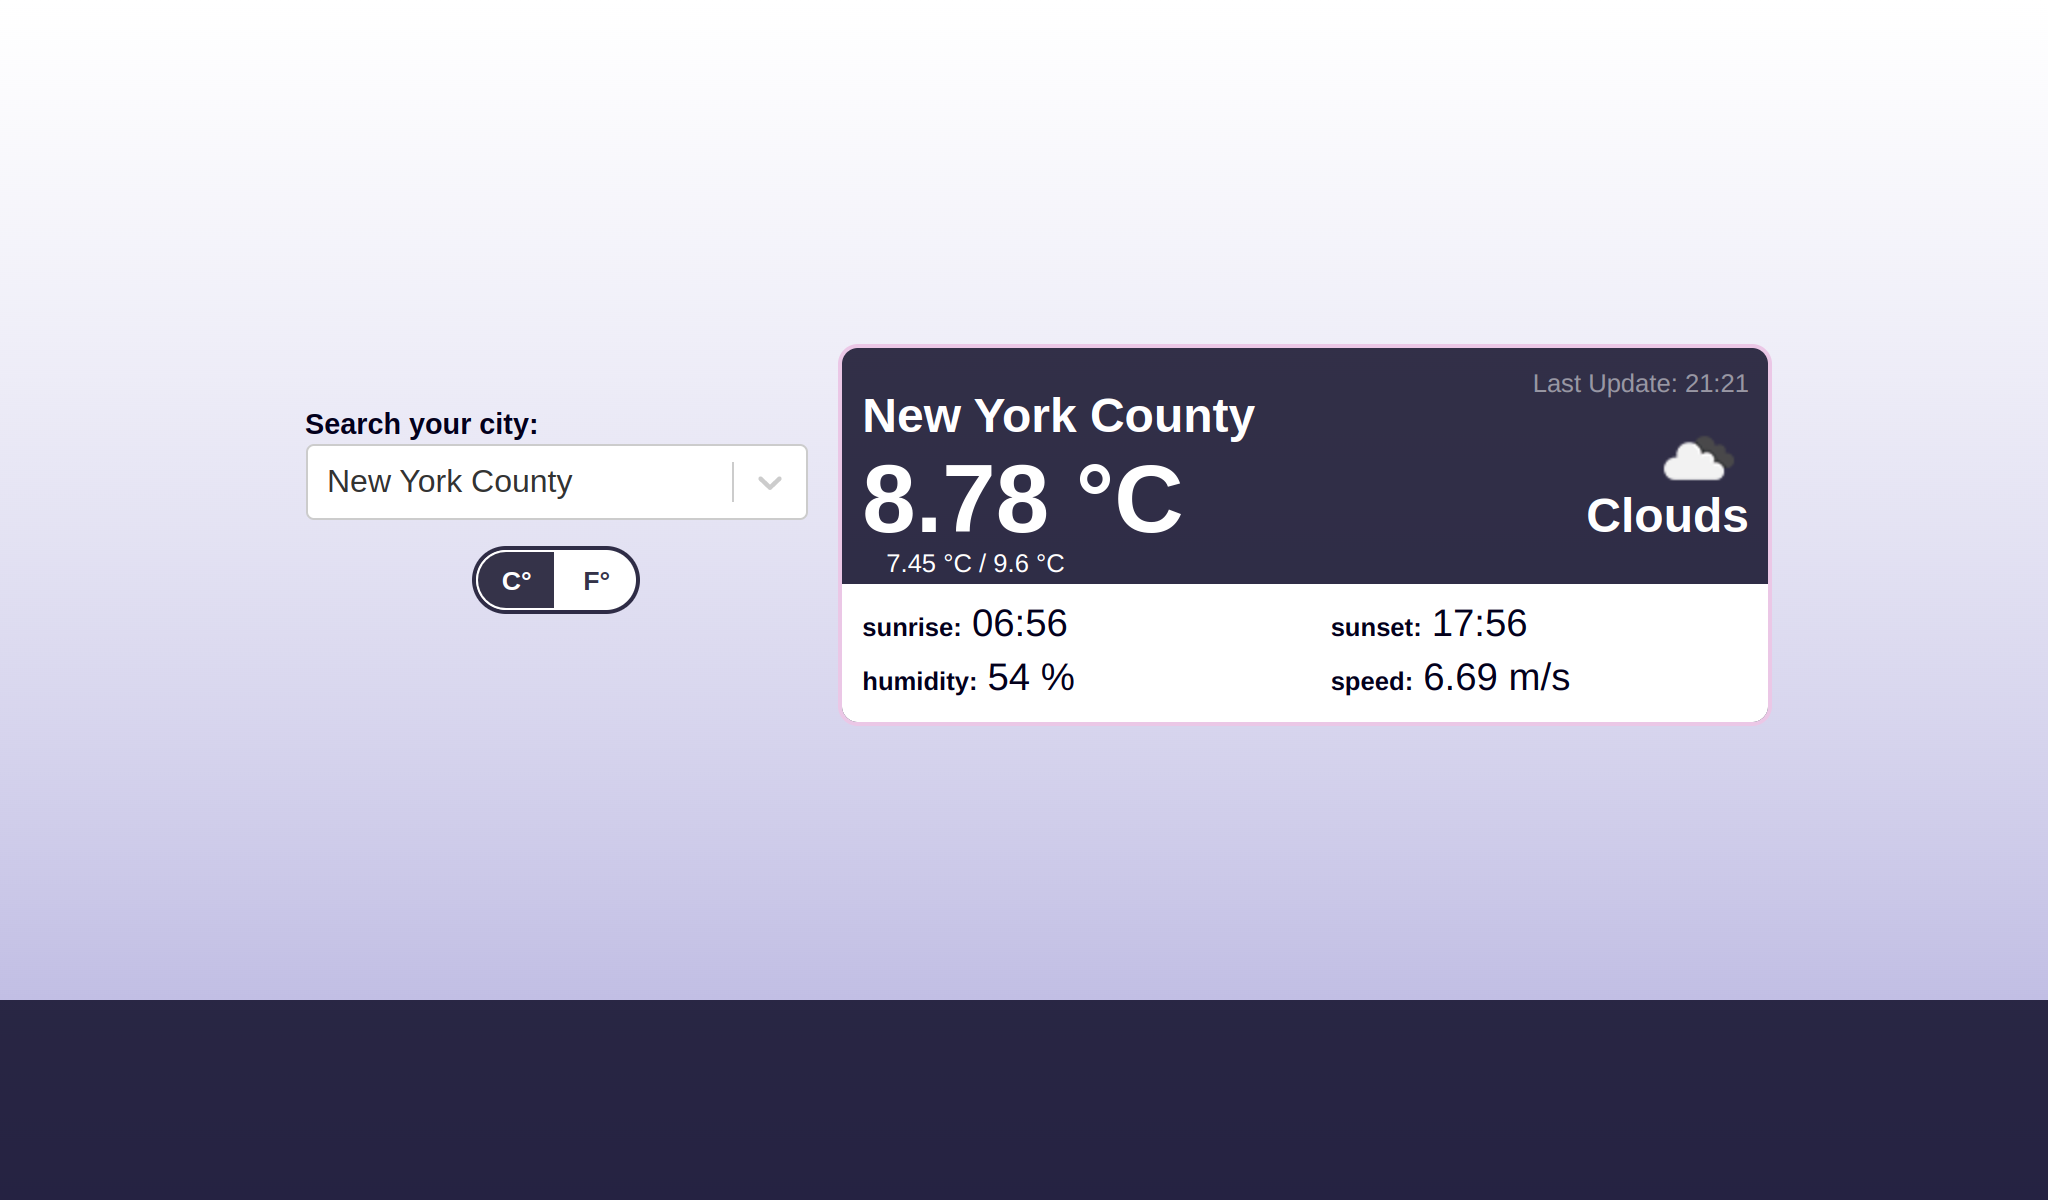
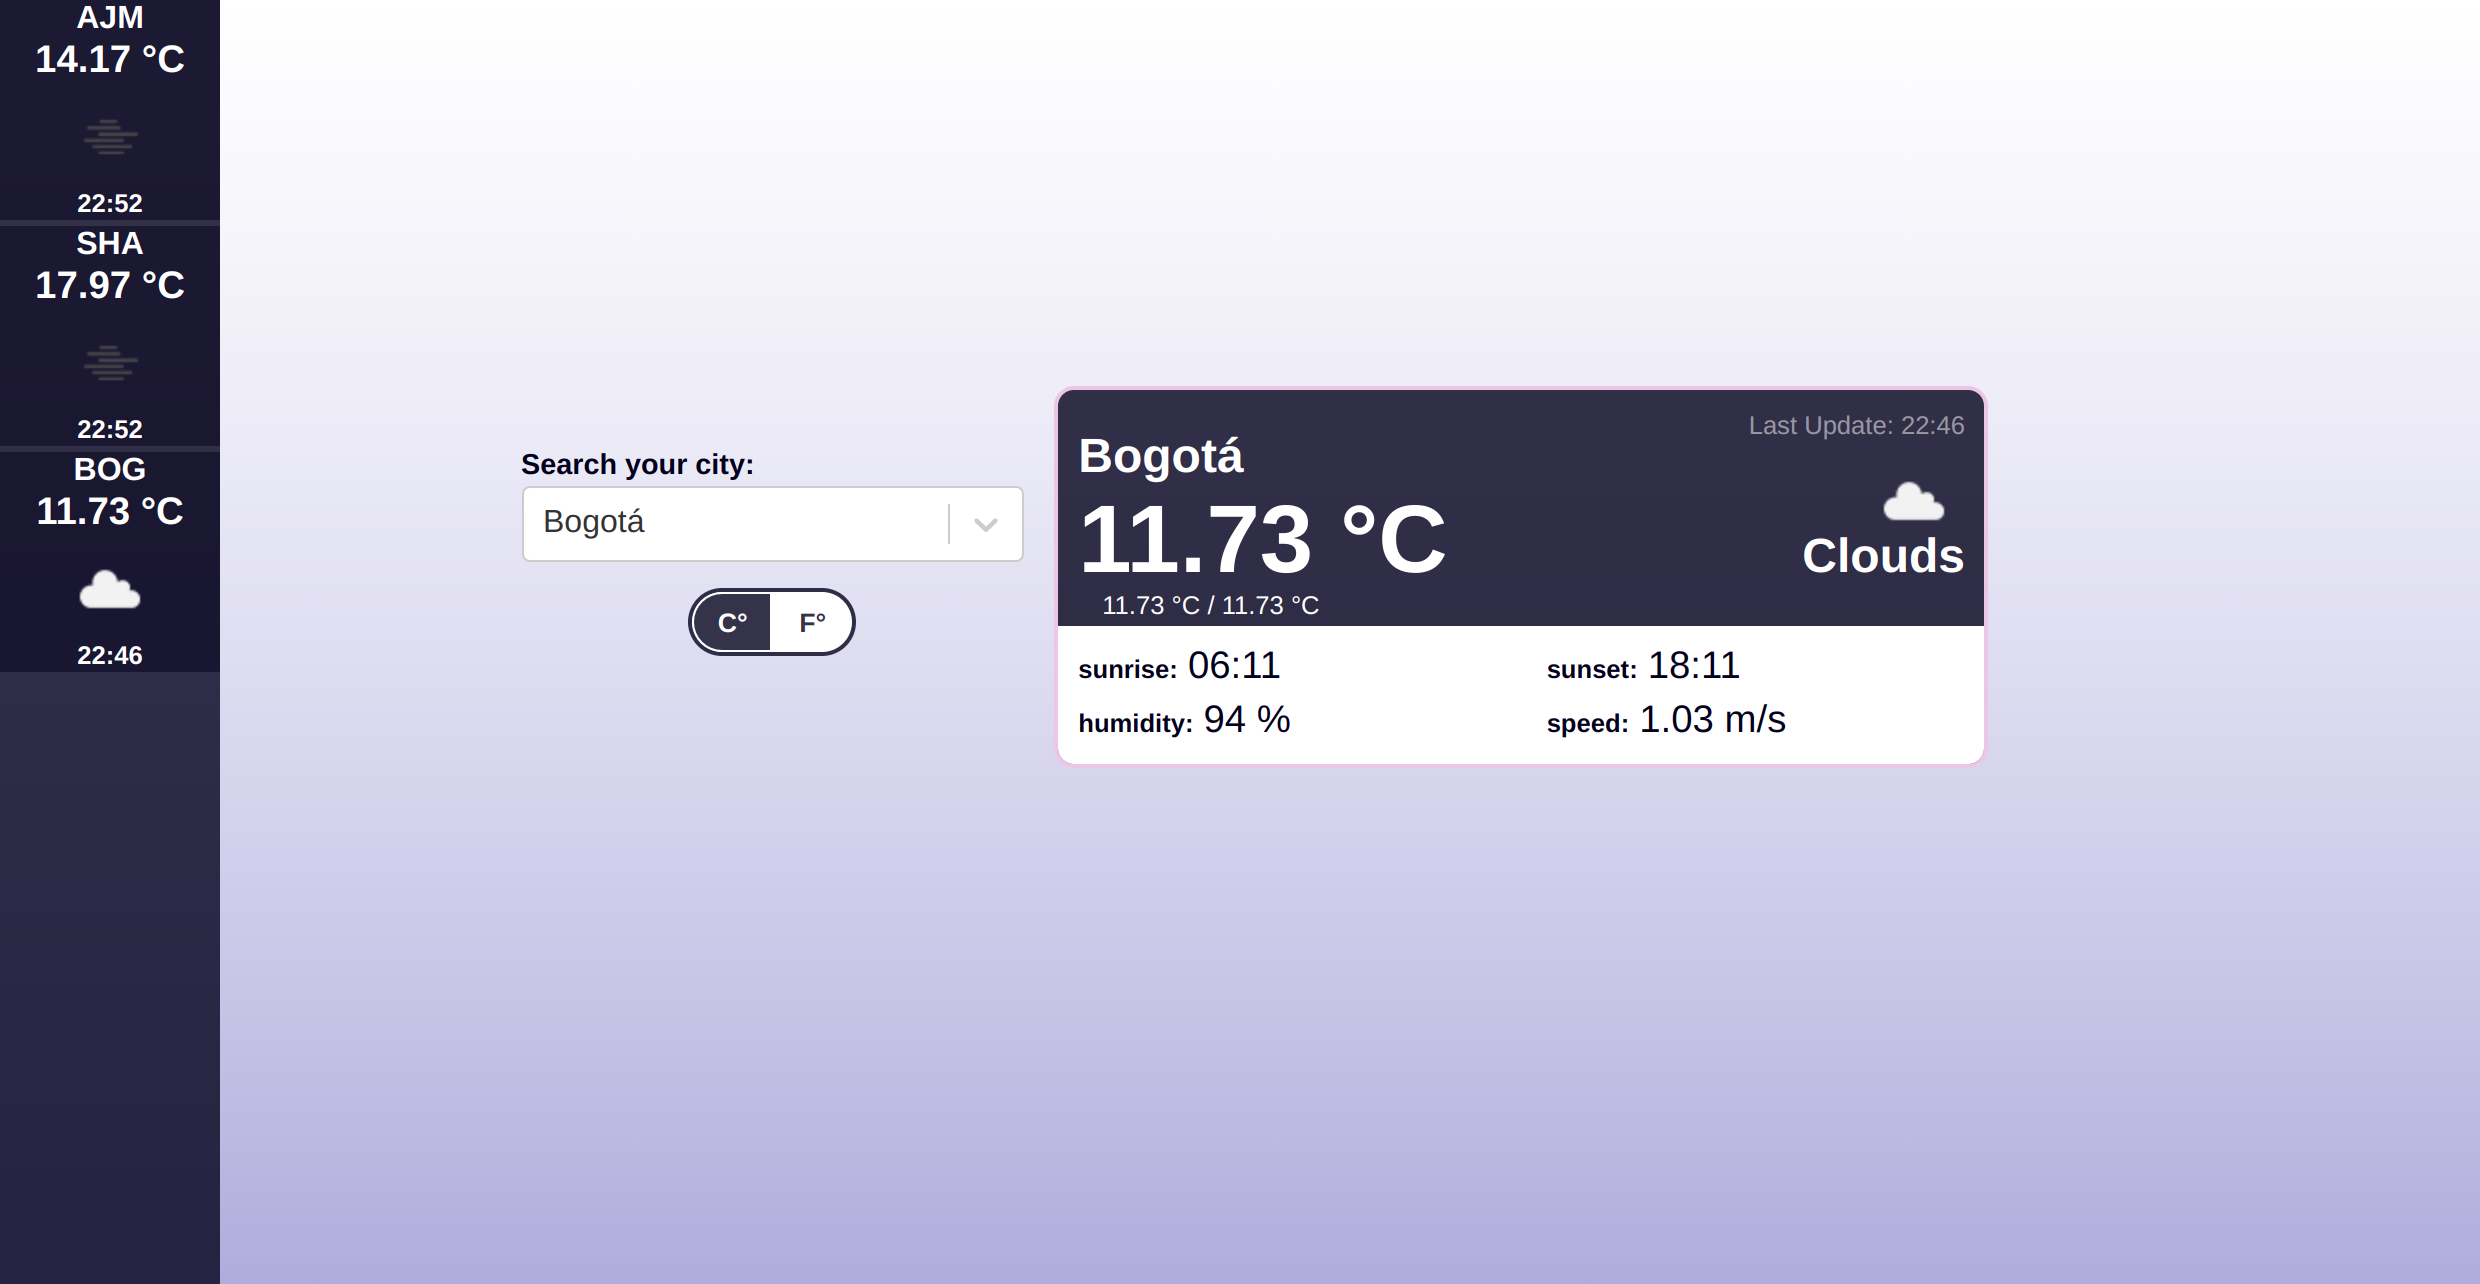
Doc (Readme): Update Readme images with new app screenshots in Desktop and Mobile view

Changed region(s): [[0.0, 0.0, 1.0, 1.0], [0.125, 0.2775, 0.875, 0.6167]]

diff --git a/src/store/thunks/citiesWeatherThunk.js b/src/store/thunks/citiesWeatherThunk.js
@@ -19,14 +19,11 @@ export const getCityWeather = (cityInfo) => {
         } = cityInfo
 
         const cache_id = `${label};${format.id}`;
-        console.log(cache_id)
 
         
         // const cacheItem = cache[cache_id]
 
         const cacheItem = cache.find(cityRegister => cityRegister.id === cache_id)
-
-        console.log(cacheItem)
 
         if (!cacheItem) {
             const [latitude, longitude] = value.split(';');
@@ -37,8 +34,6 @@ export const getCityWeather = (cityInfo) => {
                 const citylastUpdateHour = new Date(cityWeatherInfo.dt * 1000)
                 const citySunriseHour = new Date(cityWeatherInfo.sys.sunrise * 1000)
                 const citySunsetHour = new Date(cityWeatherInfo.sys.sunset * 1000);
-
-                console.log(cityWeatherInfo.weather[0],'main')
         
                 const newCityInfo = {
                     info: {

diff --git a/src/components/molecules/ResumeCard.jsx b/src/components/molecules/ResumeCard.jsx
@@ -25,7 +25,7 @@ function ResumeCard({id, cityName, currentTemp, icon, lastUpdateHour, handleClic
                 src={`http://openweathermap.org/img/wn/${icon}.png`} 
                 className='resume__icon'
             />
-            <h3 className='resume__lastUpdate'>Updated: {lastUpdateHour}</h3>
+            <h3 className='resume__lastUpdate'>{lastUpdateHour}</h3>
         </button>
     )
 }

diff --git a/src/api/openWeatheAPI.js b/src/api/openWeatheAPI.js
@@ -1,8 +1,7 @@
 import axios from "axios"
 
 const WEATHER_URL = 'https://api.openweathermap.org/data/2.5';
-const WEATHER_KEY = '218249339ae75426930a0e95e157057b';
-const WEATHER_CALL_EXCLUDE = 'minutely,hourly,daily,alerts';
+const WEATHER_KEY = '';
 
 const weatherInstance = axios.create({
     baseURL: WEATHER_URL

diff --git a/src/api/geoCitiesAPI.js b/src/api/geoCitiesAPI.js
@@ -4,7 +4,7 @@ const GEO_URL = 'https://wft-geo-db.p.rapidapi.com/v1/geo';
 
 export const options = {
     headers:{
-        'X-RapidAPI-Key': '02e820b521msh99a61fda1268e60p175a5ajsn58fda741f25a',
+        'X-RapidAPI-Key': '',
         'X-RapidAPI-Host': 'wft-geo-db.p.rapidapi.com'
     }
 }

diff --git a/src/store/slices/citiesWeatherSlice.js b/src/store/slices/citiesWeatherSlice.js
@@ -72,12 +72,6 @@ const reducers = {
                 ...city
             }
         }
-        // state.cache = {
-        //     ...state.cache,
-        //     [cache_id]: {
-        //         city
-        //     }
-        // }
         state.cache.push(newCityCache);
     }
 }
